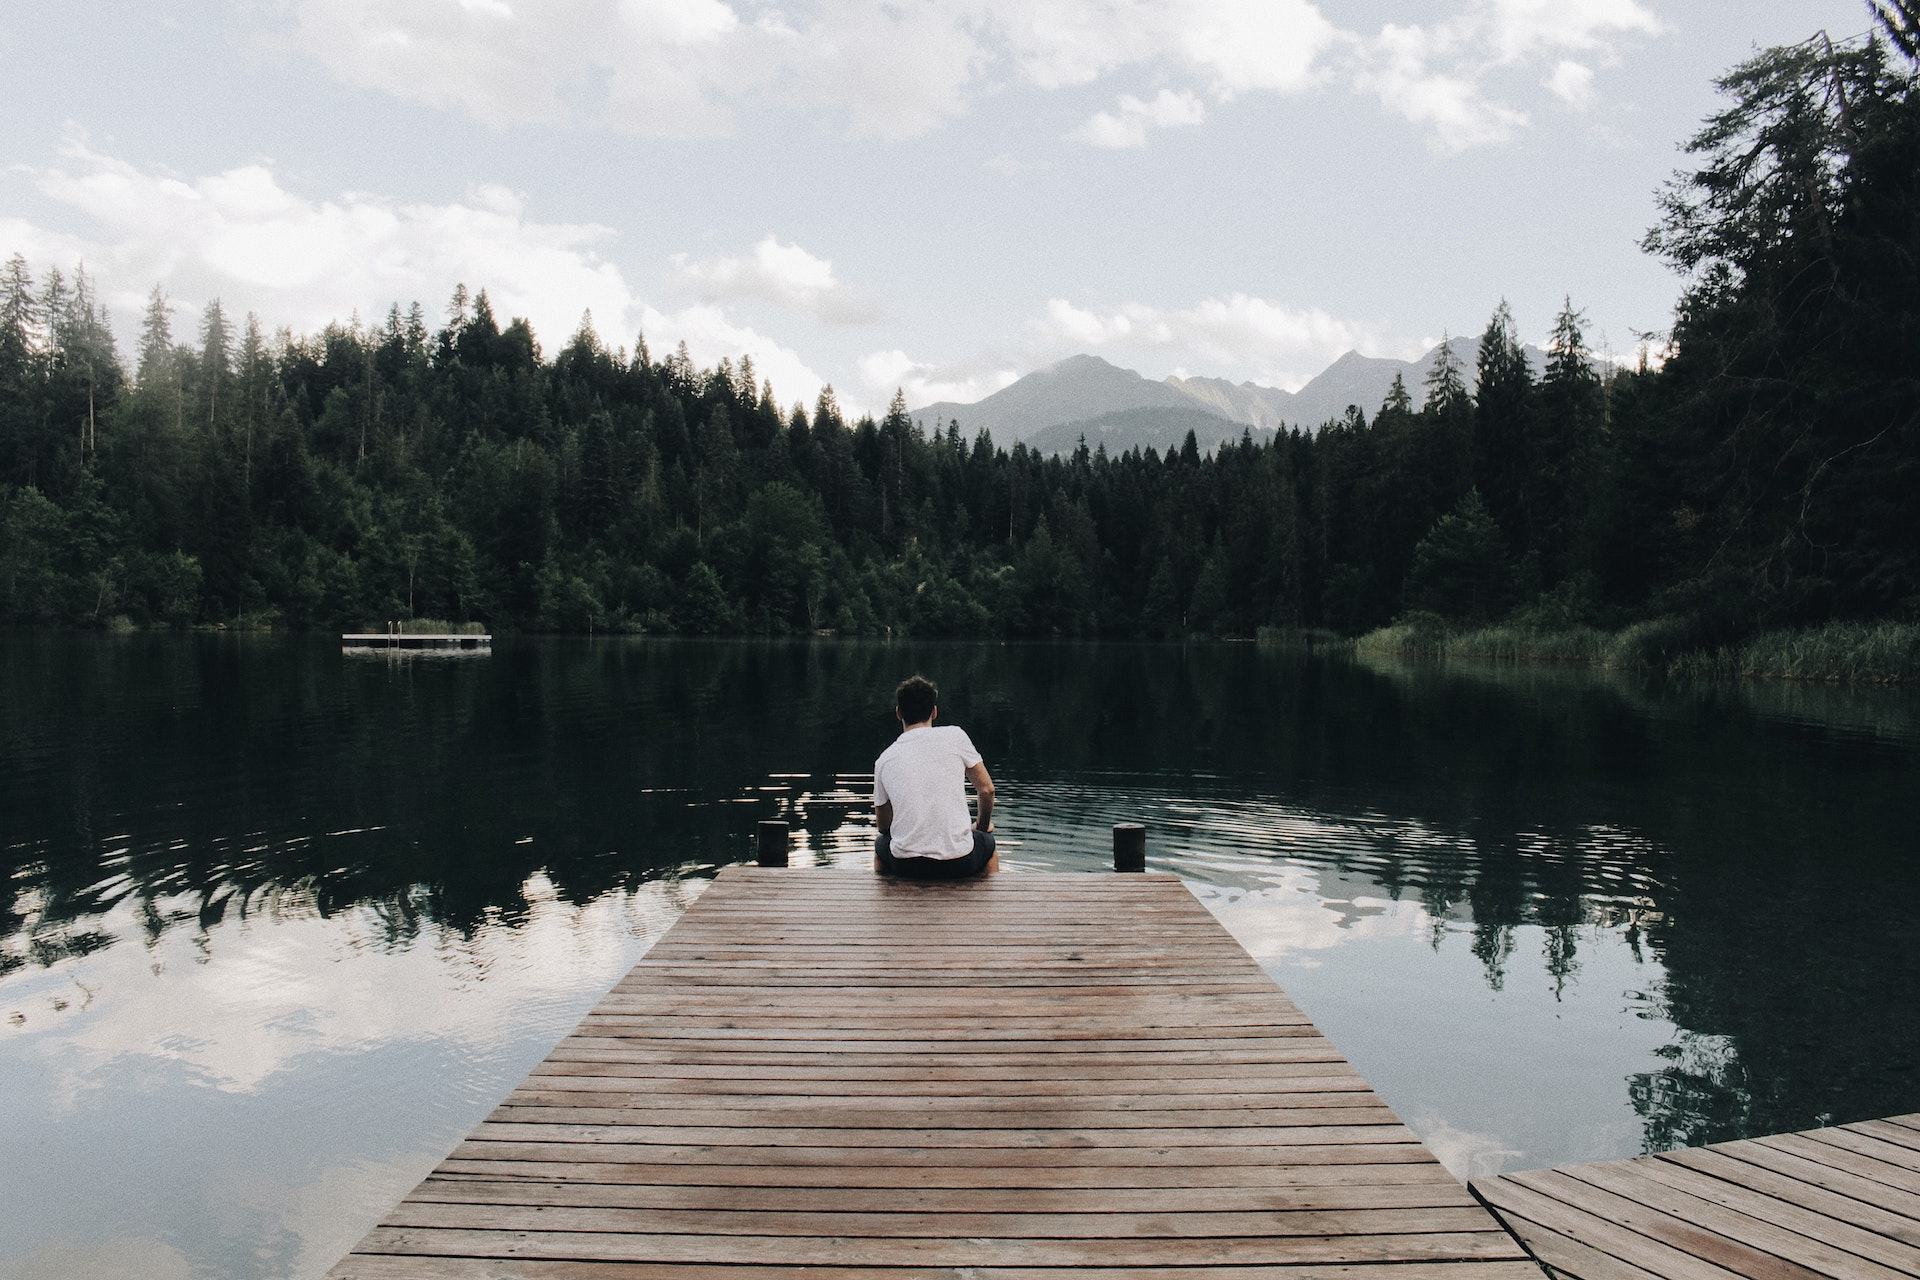
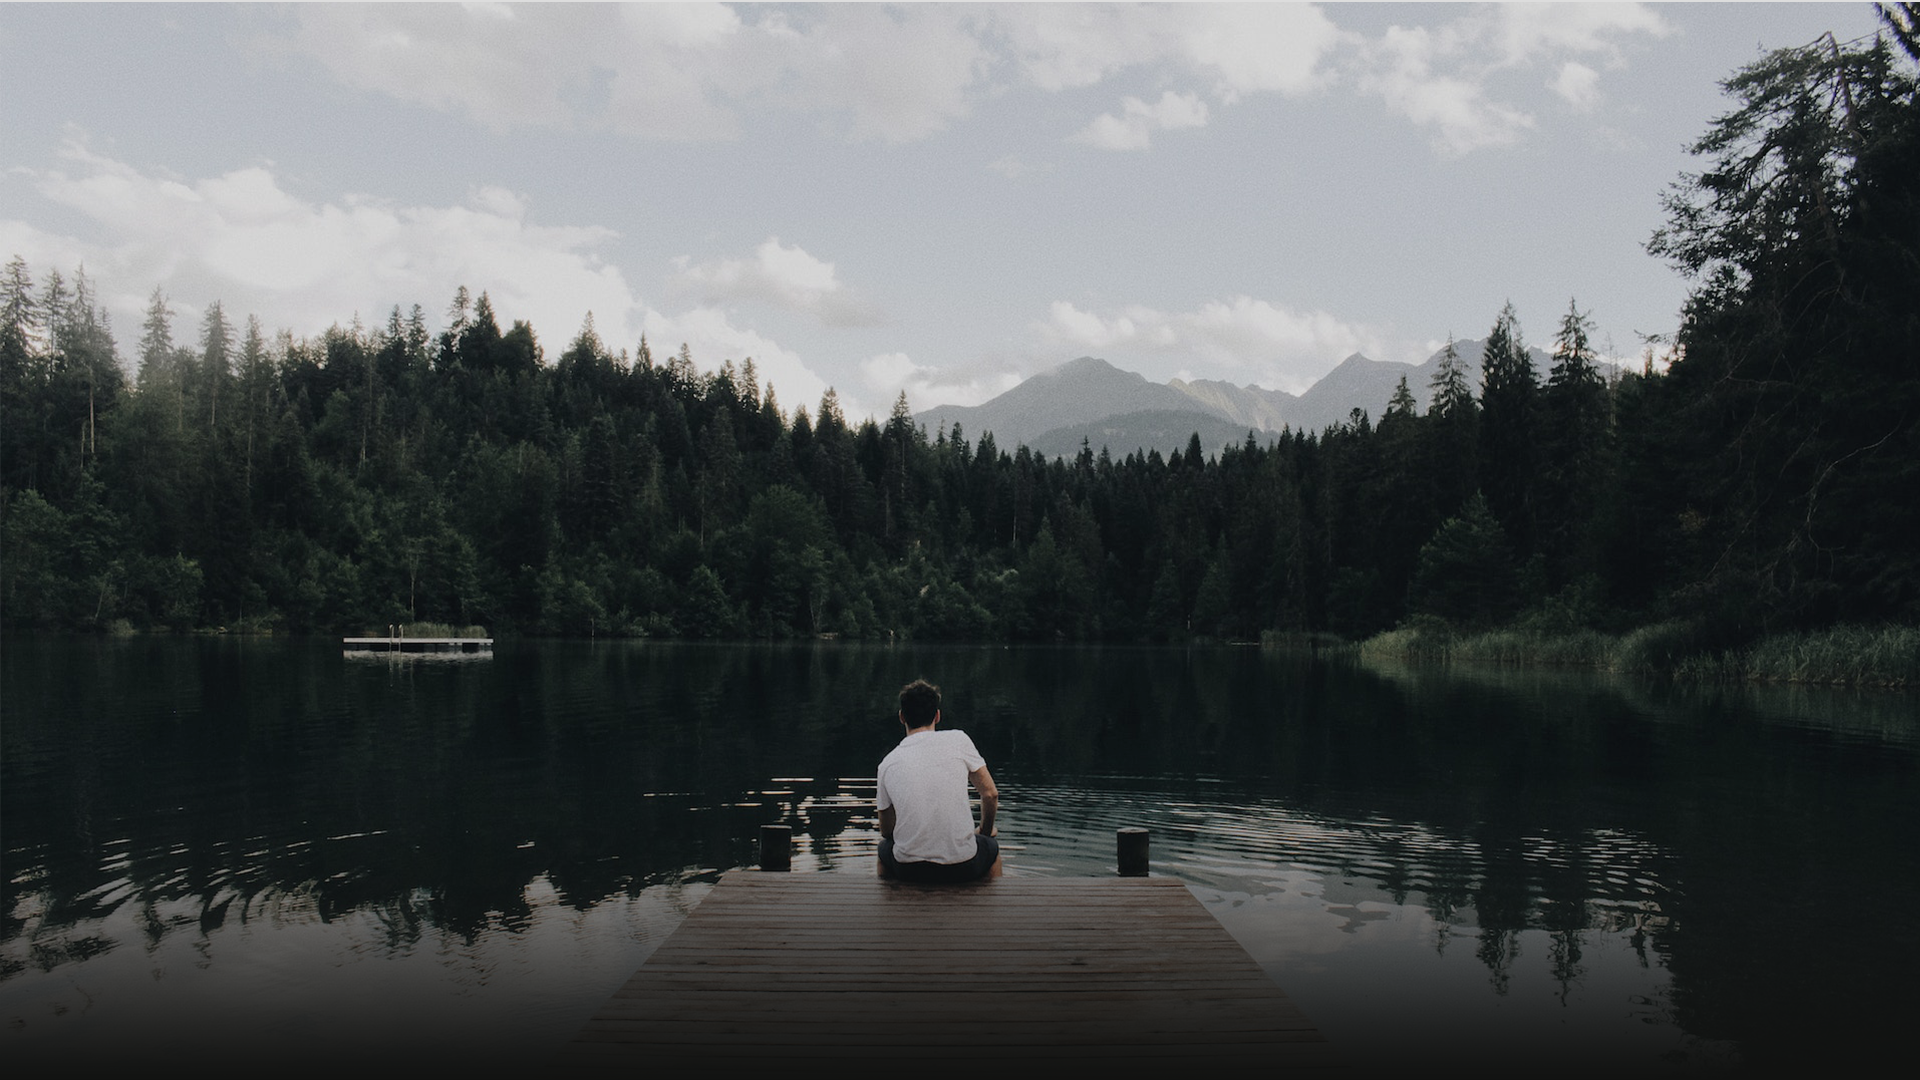
book app json mapping

diff --git a/src/components/Hobbies.js b/src/components/Hobbies.js
@@ -18,7 +18,8 @@ const Hobbies = () => {
         <h1 className="font-dmserif text-3xl font-bold text-white">Travels</h1>
         <p className="mb-3 text-lg italic text-white opacity-0 transition-opacity duration-300 group-hover:opacity-100">I plan to build a travels project with places that I want to visit</p>
             <Link to = '/portfolio-project/travel'>
-              <button className="rounded-full bg-neutral-900 py-2 px-3.5 font-com text-sm capitalize text-white shadow shadow-black/60">See More</button></Link>
+                <button className="rounded-full bg-neutral-900 py-2 px-3.5 font-com text-sm capitalize text-white shadow shadow-black/60">See More</button>
+            </Link>
       </div>
     </div>
     <div className="group relative cursor-pointer items-center justify-center overflow-hidden transition-shadow hover:shadow-xl hover:rounded-xl hover:shadow-black/30">
@@ -41,7 +42,9 @@ const Hobbies = () => {
       <div className="absolute inset-0 flex translate-y-[60%] flex-col items-center justify-center px-9 text-center transition-all duration-500 group-hover:translate-y-0">
         <h1 className="font-dmserif text-3xl font-bold text-white">Reading</h1>
         <p className="mb-3 text-lg italic text-white opacity-0 transition-opacity duration-300 group-hover:opacity-100">I just love to read in my free time. You can check below some recommendations.</p>
-        <button className="rounded-full bg-neutral-900 py-2 px-3.5 font-com text-sm capitalize text-white shadow shadow-black/60">See More</button>
+              <Link to='/portfolio-project/booksapp'>
+                <button className="rounded-full bg-neutral-900 py-2 px-3.5 font-com text-sm capitalize text-white shadow shadow-black/60">See More</button>
+              </Link>
       </div>
     </div>
   </div>

diff --git a/src/pages/components/booksapp/components/HomePage.js b/src/pages/components/booksapp/components/HomePage.js
@@ -1,0 +1,29 @@
+import React from 'react'
+import { bookBg, readingGuy } from '../booksAssets/index'
+import quotesData from './quotes.json'
+import { useEffect, useState } from 'react'
+
+const HomePage = () => {
+  const [quotes, setQuotes] = useState([]);
+  useEffect(() => {
+    fetchQuotes();
+  }, []);
+
+  const fetchQuotes = async () => {
+    setQuotes(quotesData);
+  }
+
+  return (
+      <div className='w-[100vw] h-[100vh] bg-bookBg'>
+          {/* <div className='w-[50%] h-[100%] bg-white'>
+              <img src={readingGuy} alt='reading guy' className='aspect-auto object-cover w-full h-[100vh]'></img></div> */}
+      <div className='text-white'>
+        {quotes.map((data) =>{
+          return<p>{`${data.quote} - ${data.author}`}</p>
+        })}
+      </div>
+    </div>
+  )
+}
+
+export default HomePage

diff --git a/src/index.js b/src/index.js
@@ -16,6 +16,7 @@ import HardSkills from './components/HardSkills';
 import FirstSection from './components/FirstSection';
 import SecondSection from './components/SecondSection';
 import Footer from './components/Footer';
+import BooksApp from './pages/components/booksapp/BooksApp';
 
 const router = createBrowserRouter([
   {
@@ -41,6 +42,10 @@ const router = createBrowserRouter([
   {
     path: "/portfolio-project/calories-tracker",
     element: <CaloriesTrackerApp/>,
+  },
+  {
+    path: "/portfolio-project/booksapp",
+    element: <BooksApp/>,
   },
   {
     path: '/home',

diff --git a/tailwind.config.js b/tailwind.config.js
@@ -6,7 +6,8 @@ module.exports = {
       backgroundImage: {
         'mRoad': "url('../src/pages/components/assetsTravelApp/photoshop.png')",
         'photoshop': "url('../src/pages/components/assetsTravelApp/final2.png')",
-        'bridge' : "url('../src/pages/components/assetsTravelApp/bridge.jpg')",
+        'bridge': "url('../src/pages/components/assetsTravelApp/bridge.jpg')",
+        'bookBg' : "url('../src/pages/components/booksapp/booksAssets/bookBack.jpg')"
       },
     },
   },

diff --git a/src/pages/components/booksapp/BooksApp.js b/src/pages/components/booksapp/BooksApp.js
@@ -1,0 +1,10 @@
+import React from 'react'
+import HomePage from './components/HomePage'
+
+const BooksApp = () => {
+  return (
+    <HomePage/>
+  )
+}
+
+export default BooksApp

diff --git a/src/pages/components/booksapp/booksAssets/index.js b/src/pages/components/booksapp/booksAssets/index.js
@@ -1,0 +1,3 @@
+import readingGuy from './readingGuy.png'
+import bookBg from './bookBg.jpg'
+export {readingGuy, bookBg}
